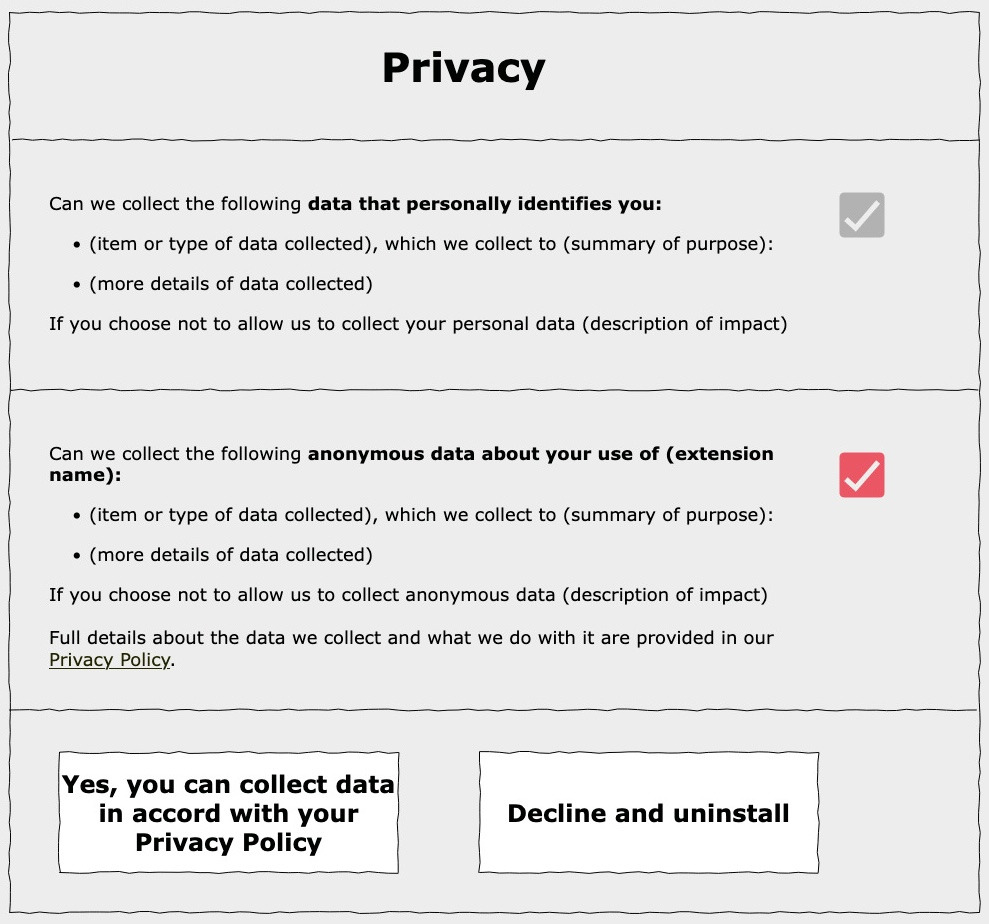
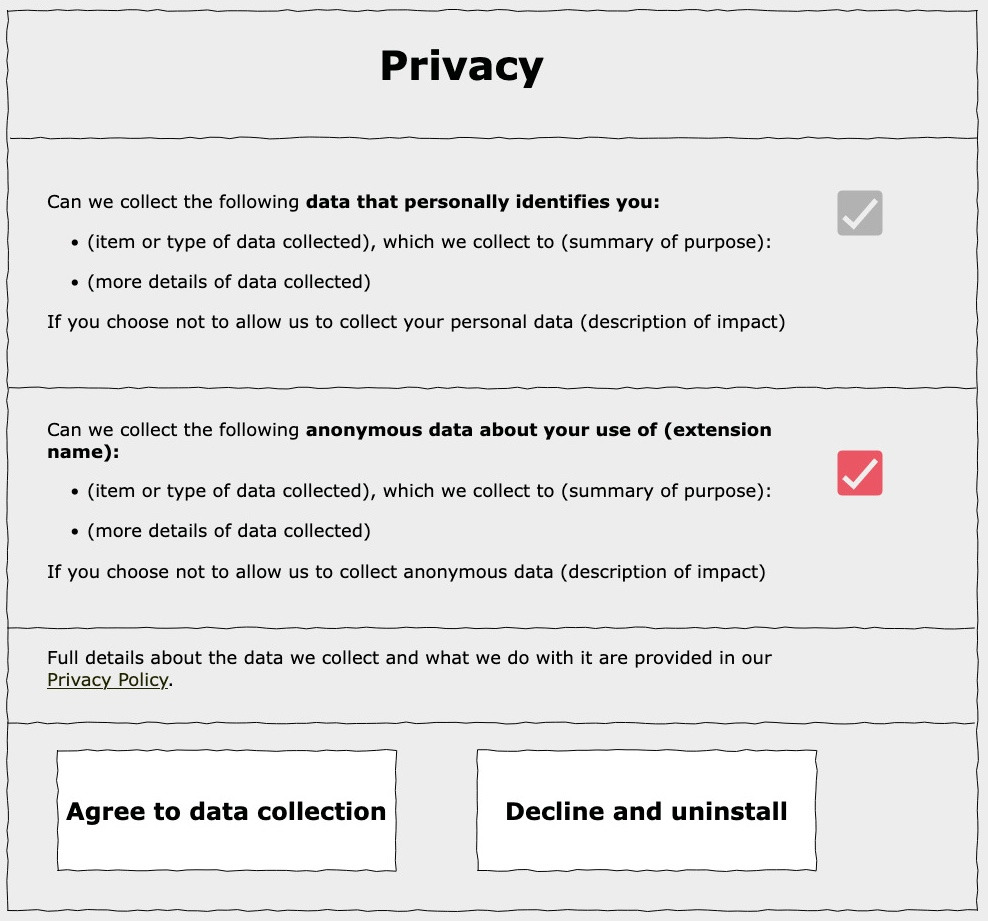
Simplified consent button copy and minor copy change

diff --git a/src/content/documentation/develop/best-practices-for-collecting-user-data-consents.md b/src/content/documentation/develop/best-practices-for-collecting-user-data-consents.md
@@ -173,7 +173,7 @@ In this example:
 
 Once you understand your privacy consent flow, you can add a suitable consent dialog. The following are suggestions on how to present a data collection consent dialog. We recommend that all of the data collection controls and actions (toggles and confirmation buttons) be present within the same view. A summary of the data collected and how it is used must be present for each type of data collected within the consent dialog.
 
-Where the mockups include the linked text “our Privacy Policy”, this should go to your extension’s privacy policy page. Privacy policy page can be self-hosted for unlisted extensions or hosted on AMO for listed extensions.
+Where the mockups include the linked text “our Privacy Policy”, this should go to your extension’s privacy policy page. Privacy policy page should be self-hosted for unlisted extensions or hosted on AMO for listed extensions.
 
 ### Only personally identifying information
 The default option is not to collect personally identifying information. If you do, the user needs to actively opt-in. Remember to list the data you’re collecting; don’t make the user read your privacy policy to determine what data you are collecting and why.
